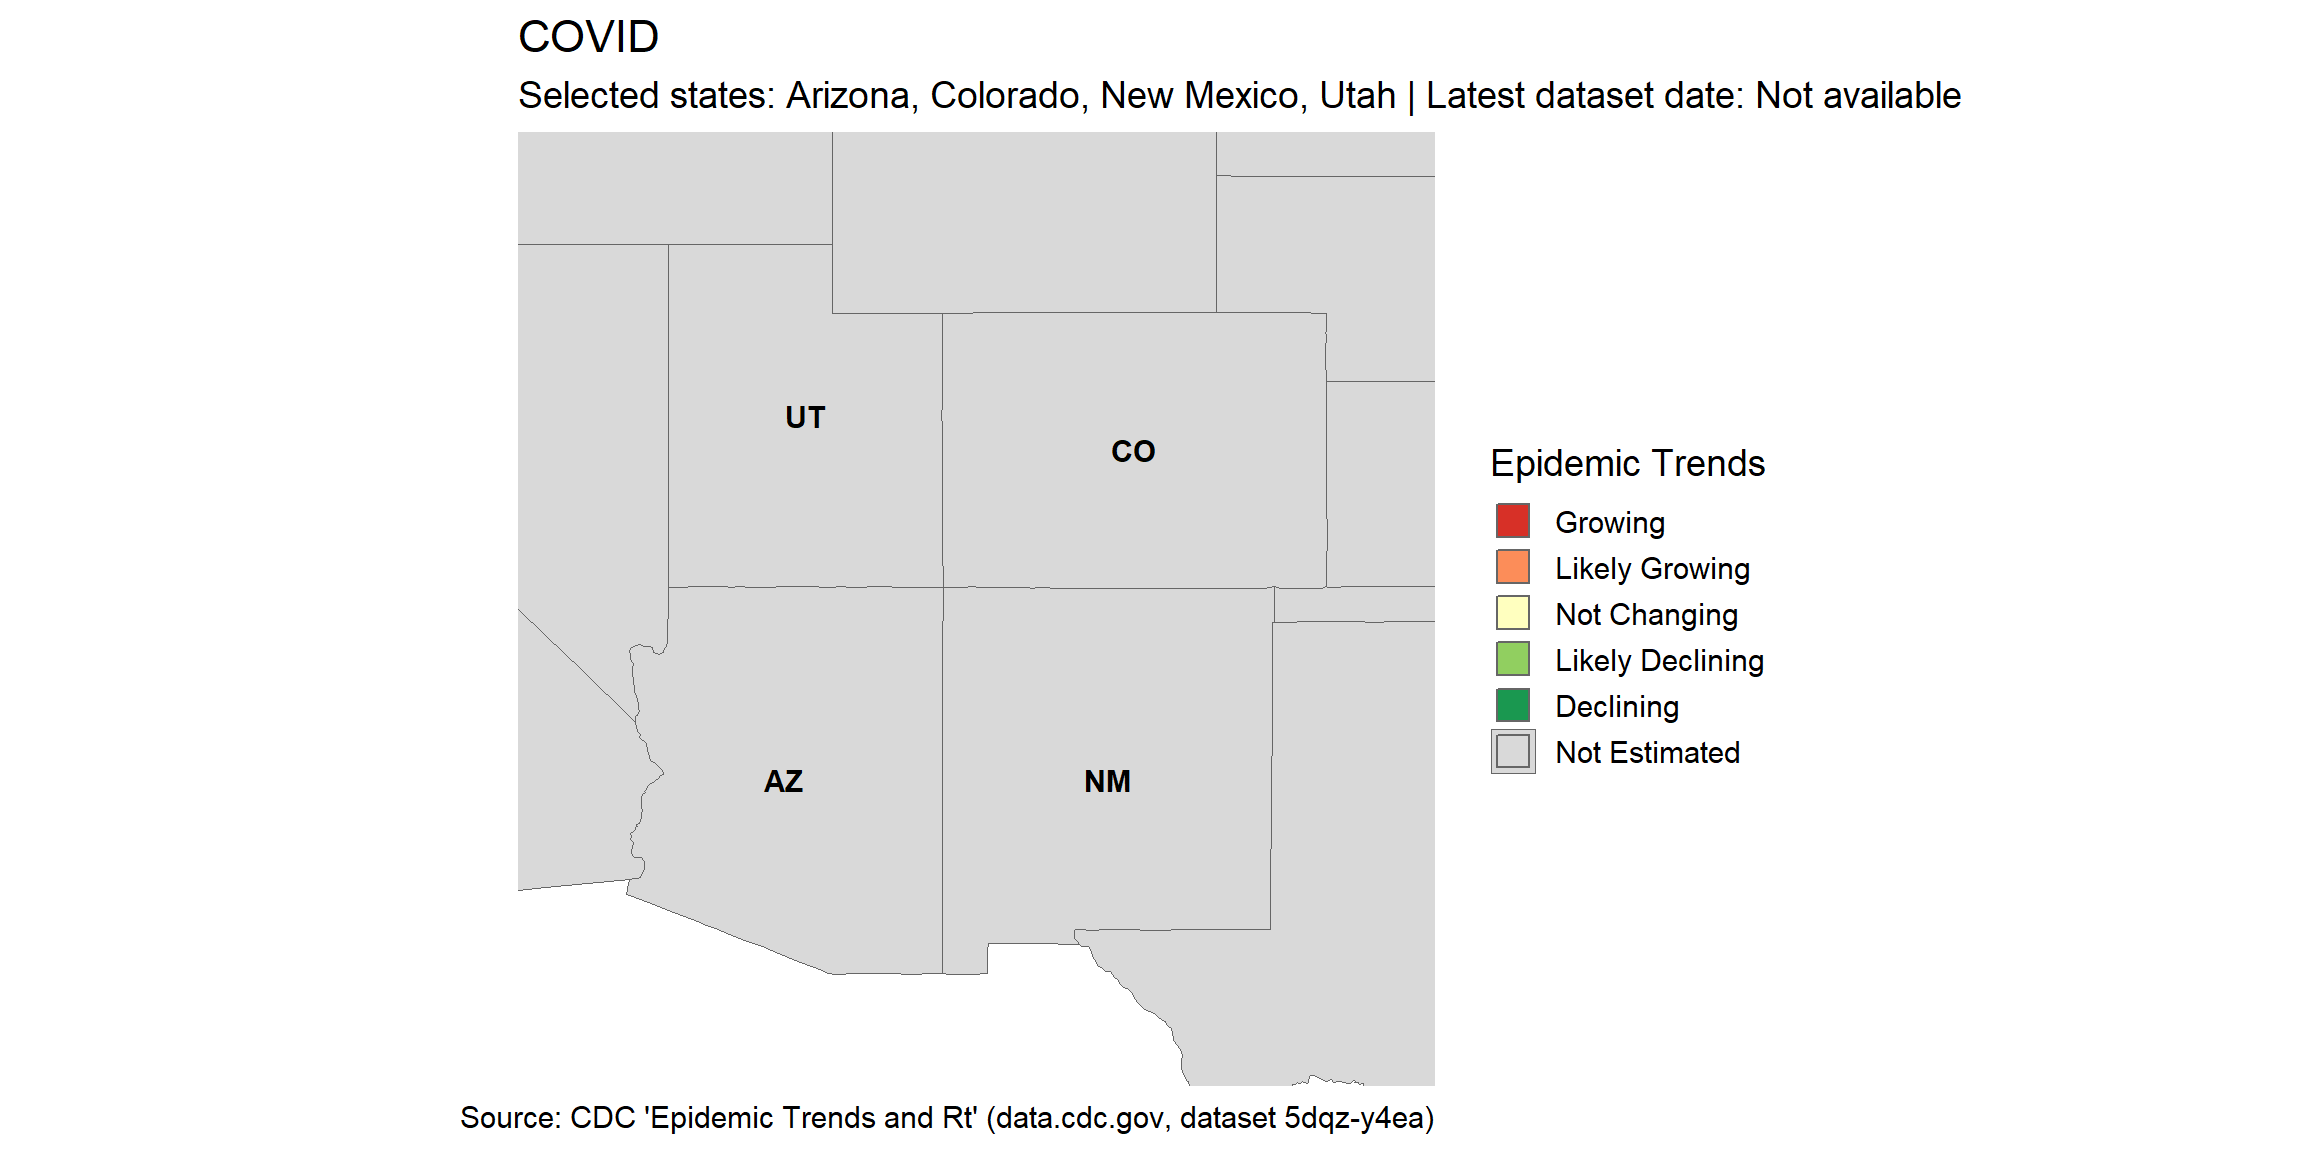
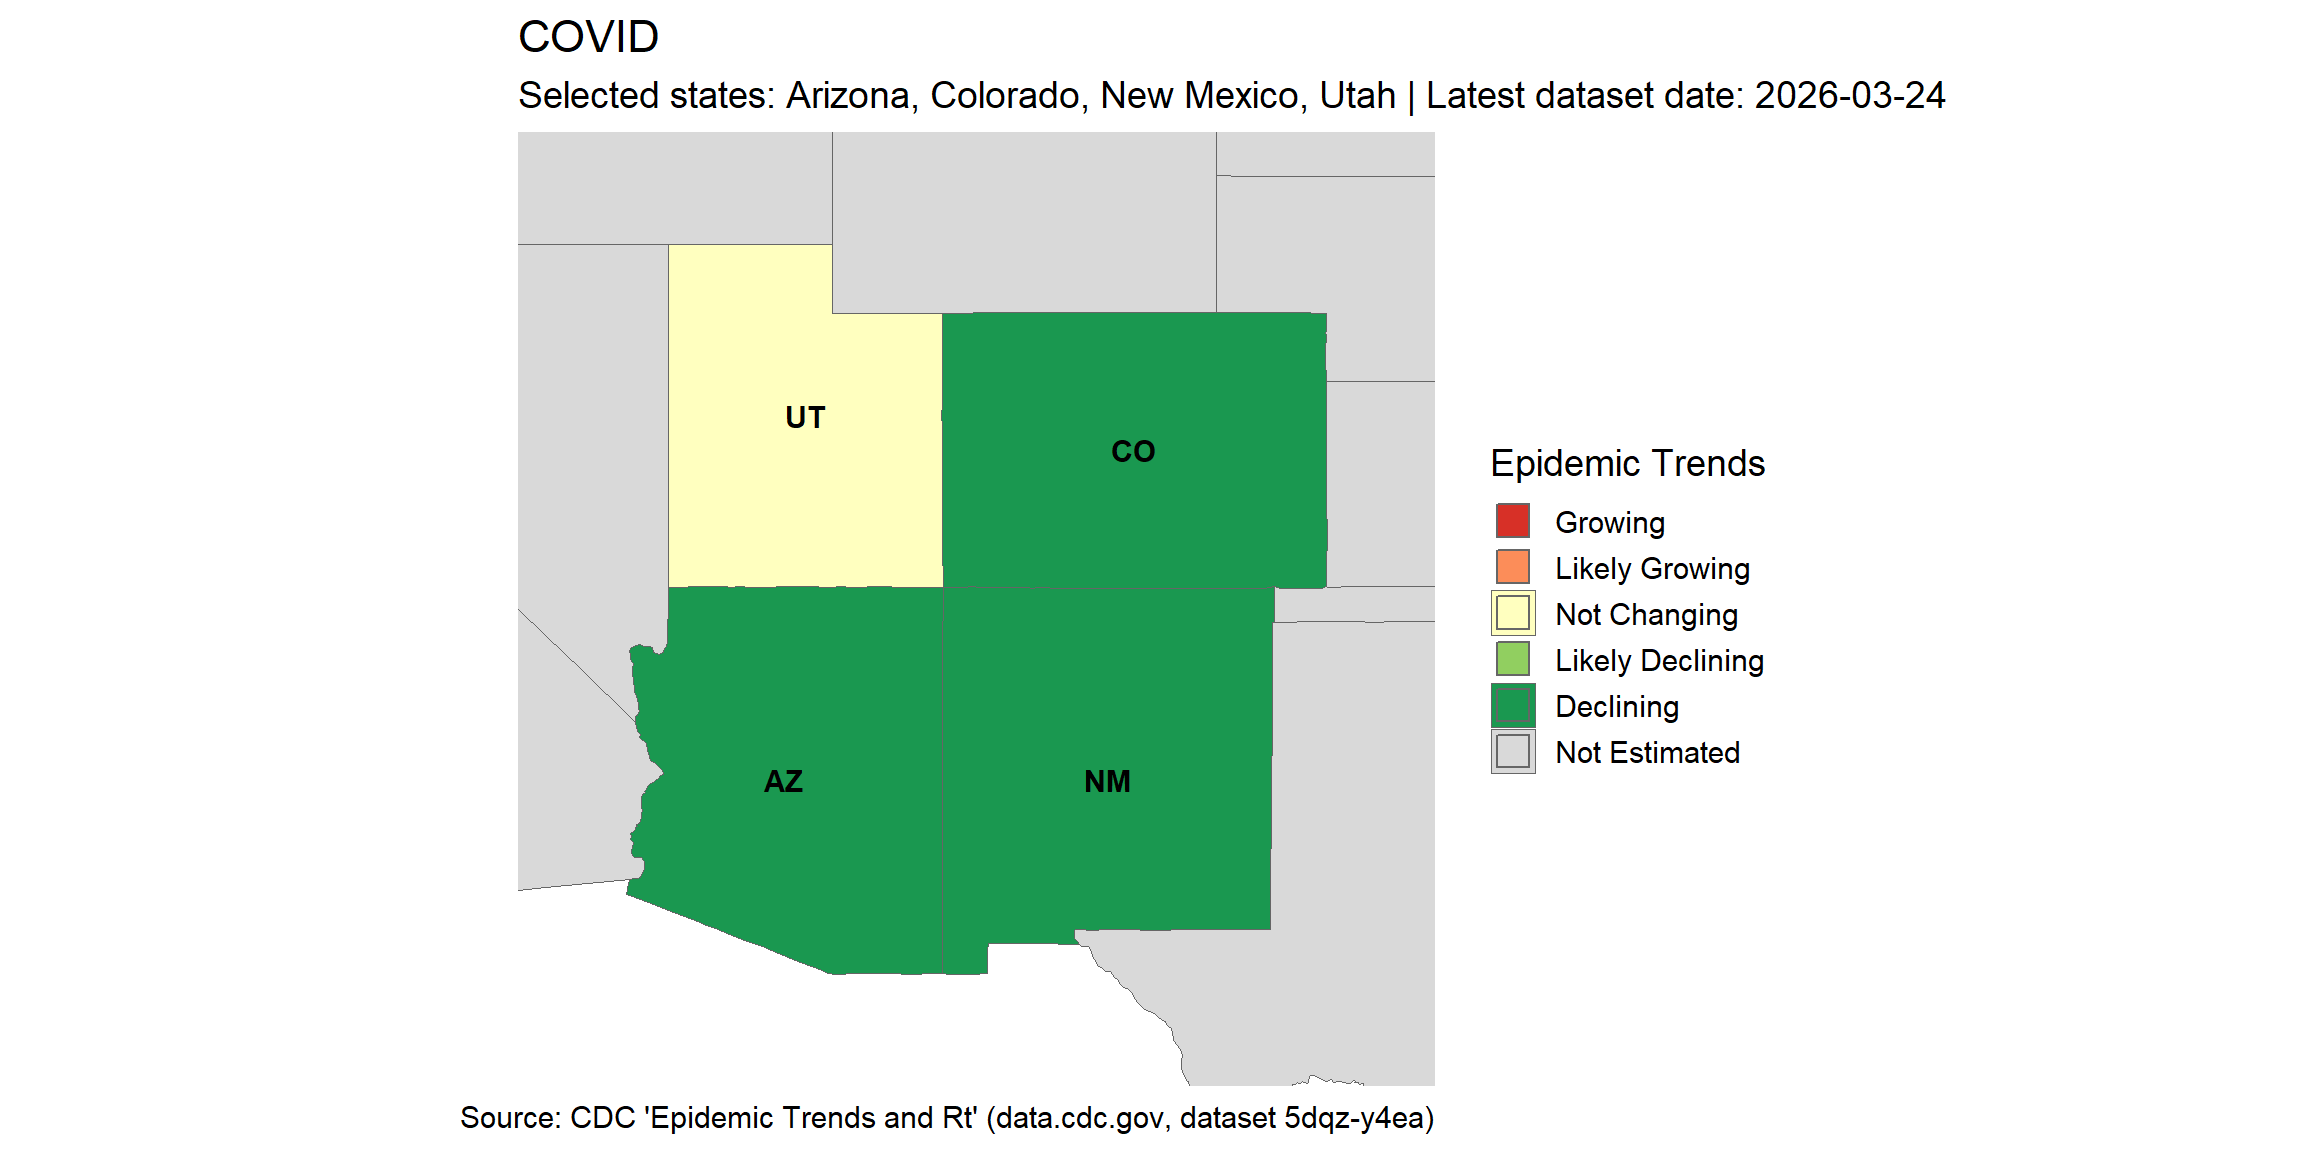
Update 3.30

Changed region(s): [[0.25, 0.1875, 0.5938, 0.8438], [0.75, 0.0625, 0.8438, 0.0938], [0.6562, 0.5938, 0.6875, 0.625]]

diff --git a/docs/trajectory-maps.html b/docs/trajectory-maps.html
@@ -484,10 +484,10 @@ RSV
 <div class="cardish-summary">
 <p>
 The current COVID epidemic trend is <strong>declining</strong> for
-Arizona, Colorado, New Mexico, and Utah. The weekly percentage of ED
-visits diagnosed with COVID was <strong>very low</strong> for Arizona,
-Colorado, New Mexico, and Utah. (Trend assessments based on data
-reported through 3/17/2026)
+Arizona, Colorado, and New Mexico and <strong>not changing</strong> for
+Utah. The weekly percentage of ED visits diagnosed with COVID was
+<strong>very low</strong> for Arizona, Colorado, New Mexico, and Utah.
+(Trend assessments based on data reported through 3/24/2026)
 </p>
 </div>
 <img src="trajectory-maps_files/figure-html/cdc-rt-trend-maps-with-paired-summaries-1.png" width="100%" style="display: block; margin: auto;" />
@@ -495,13 +495,12 @@ reported through 3/17/2026)
 <div id="influenza" class="tab-pane fade" role="tabpanel">
 <div class="cardish-summary">
 <p>
-The current flu epidemic trend is <strong>not changing</strong> for
-Colorado, <strong>likely declining</strong> for Utah, and
-<strong>declining</strong> for Arizona and New Mexico. The weekly
-percentage of ED visits diagnosed with influenza was
-<strong>moderate</strong> for Colorado and <strong>low</strong> for
-Arizona, New Mexico, and Utah. (Trend assessments based on data reported
-through 3/17/2026)
+The current flu epidemic trend is is <strong>declining</strong> for
+Arizona and Colorado, <strong>likely declining</strong> for Utah, and
+<strong>not changing</strong> for New Mexico. The weekly percentage of
+ED visits diagnosed with influenza was <strong>moderate</strong> for
+Colorado and <strong>low</strong> for Arizona, New Mexico, and Utah.
+(Trend assessments based on data reported through 3/24/2026)
 </p>
 </div>
 <img src="trajectory-maps_files/figure-html/cdc-rt-trend-maps-with-paired-summaries-2.png" width="100%" style="display: block; margin: auto;" />
@@ -509,12 +508,12 @@ through 3/17/2026)
 <div id="rsv" class="tab-pane fade" role="tabpanel">
 <div class="cardish-summary">
 <p>
-The current RSV epidemic trend is <strong>declining</strong> for Arizona
-and Colorado and <strong>likely declining</strong> for New Mexico and
-Utah. The weekly percentage of ED visits diagnosed with RSV was
+The current RSV epidemic trend is <strong>declining</strong> for
+Arizona, Colorado, and Utah and <strong>likely declining</strong> for
+New Mexico. The weekly percentage of ED visits diagnosed with RSV was
 <strong>moderate</strong> for Colorado and <strong>low</strong> for
 Arizona, New Mexico, and Utah. (Trend assessments based on data reported
-through 3/17/2026)
+through 3/24/2026)
 </p>
 </div>
 <img src="trajectory-maps_files/figure-html/cdc-rt-trend-maps-with-paired-summaries-3.png" width="100%" style="display: block; margin: auto;" />

diff --git a/docs/index.html b/docs/index.html
@@ -424,7 +424,7 @@ $(document).ready(function () {
 Respiratory Virus Situation Report
 </h1>
 <p class="home-subtitle">
-Arizona • Colorado • New Mexico • Utah — updated <strong>March 20,
+Arizona • Colorado • New Mexico • Utah — updated <strong>March 30,
 2026</strong>
 </p>
 <div class="home-grid">
